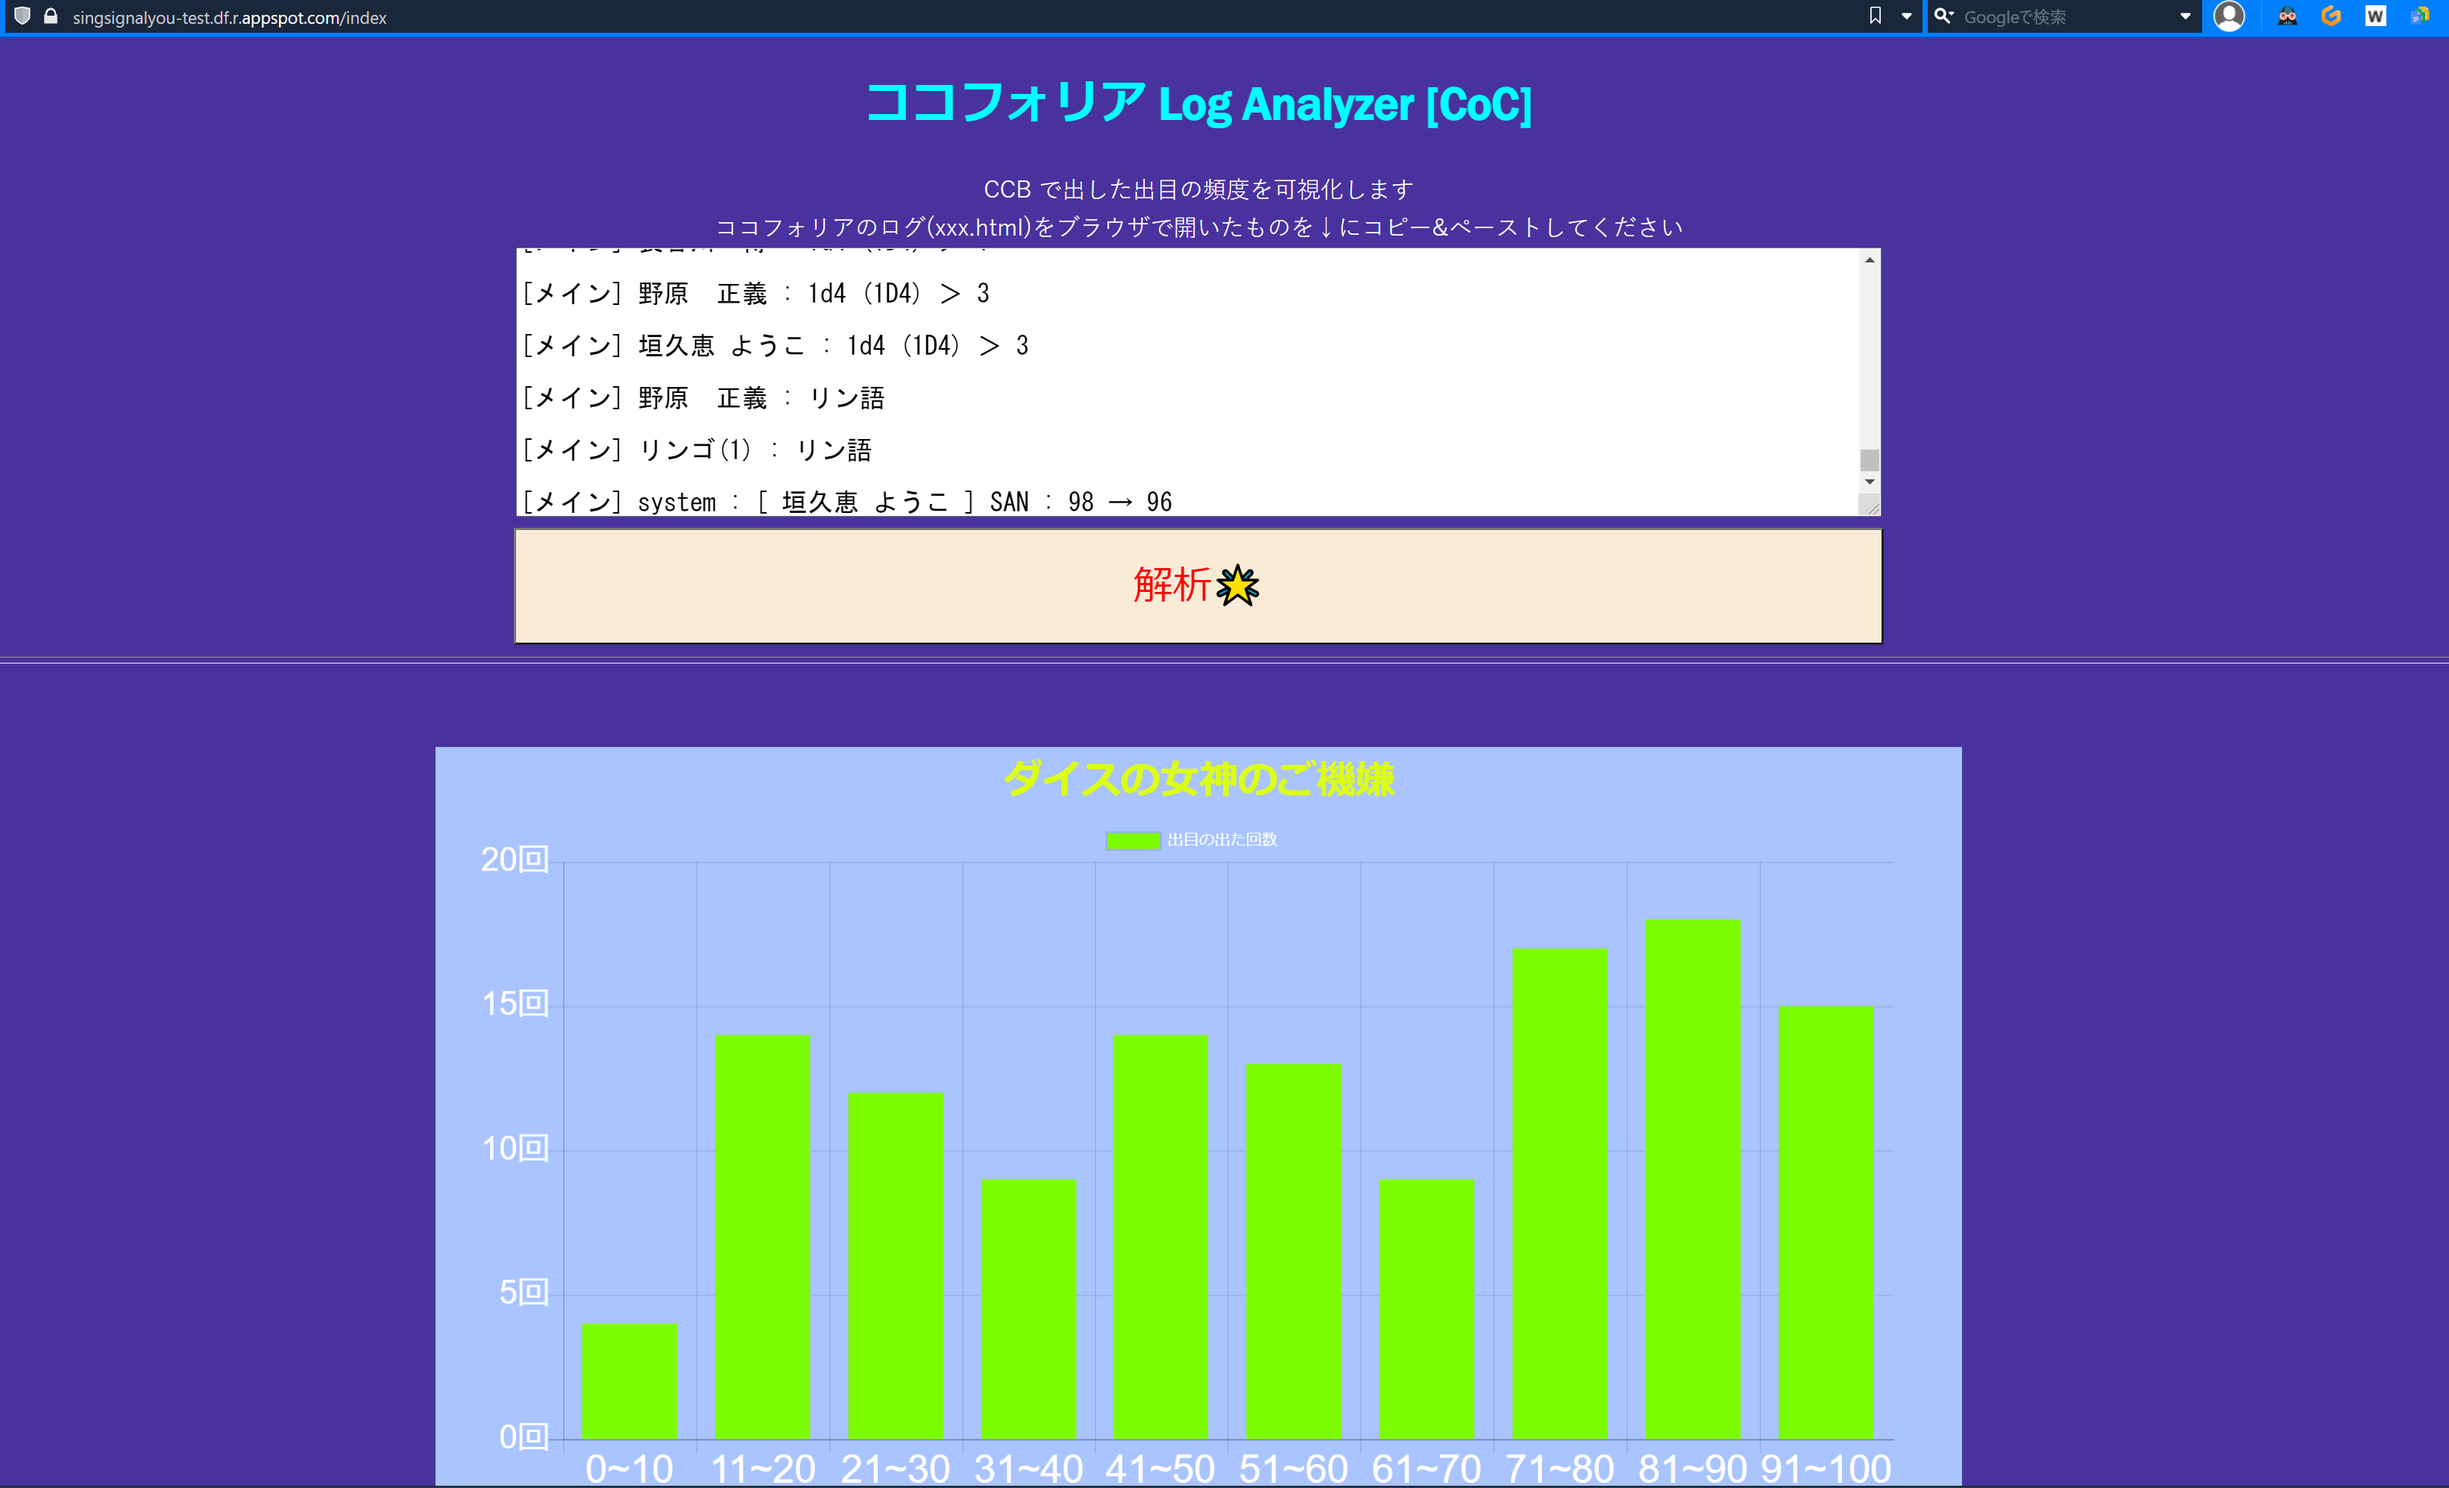
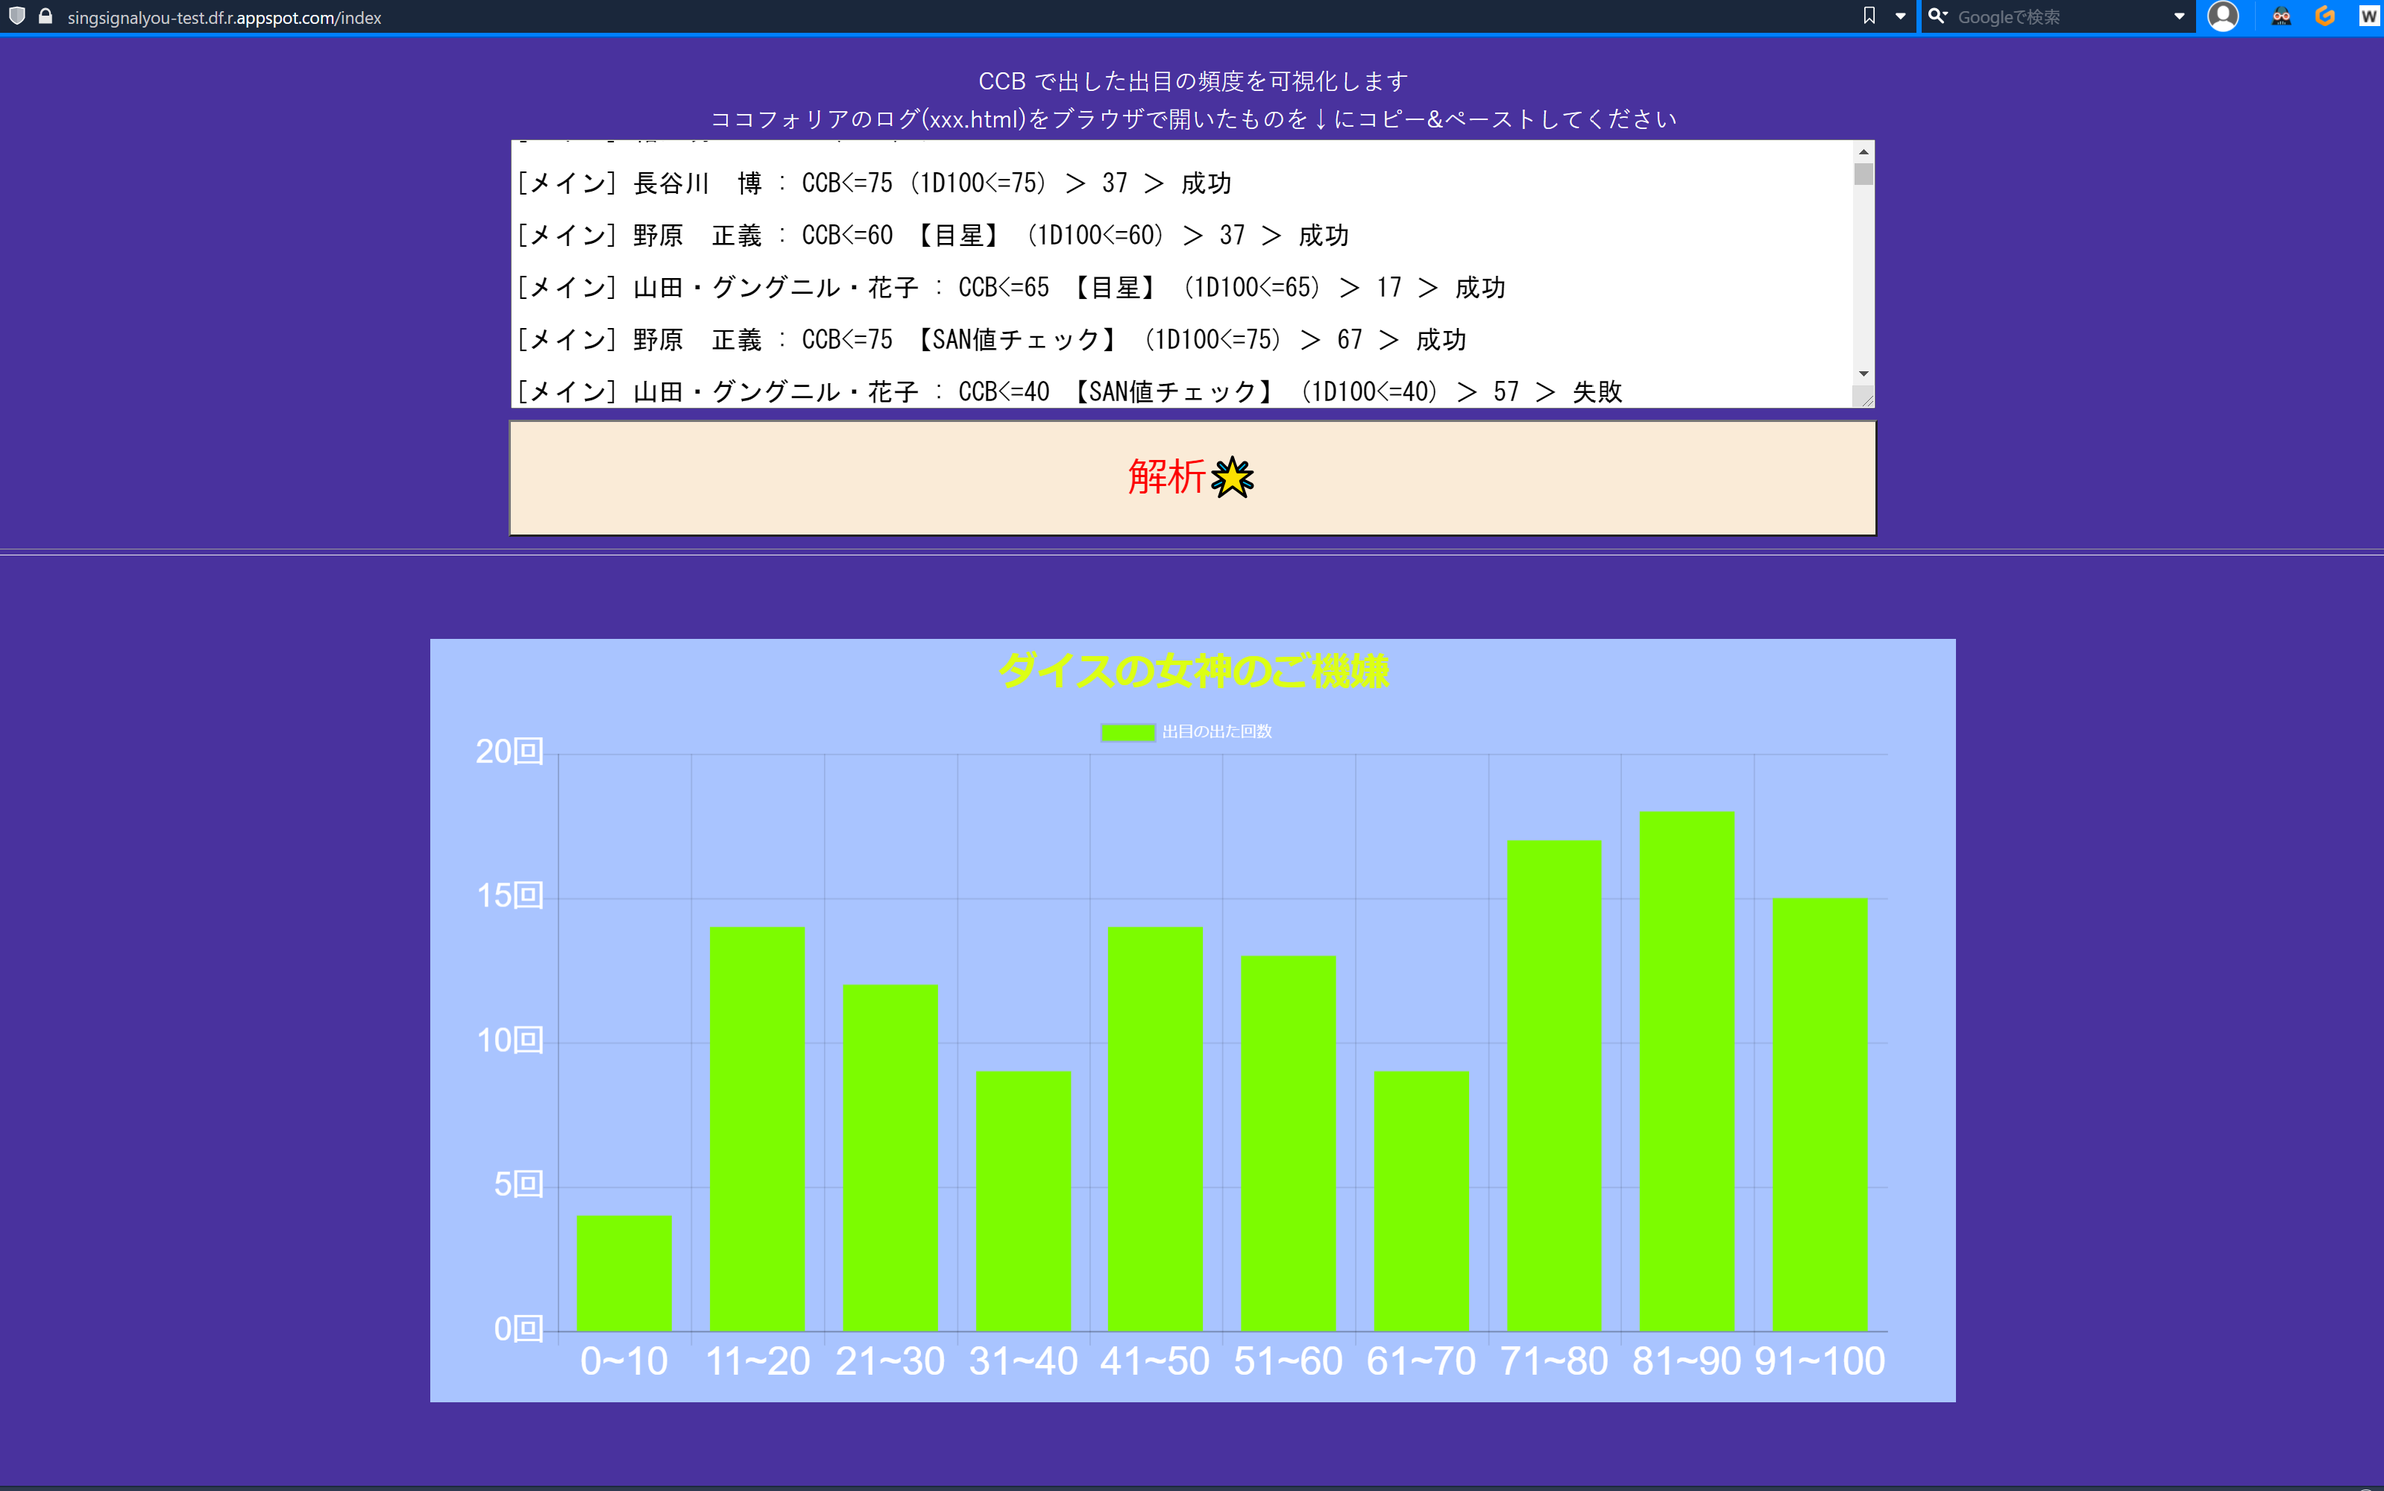
Refine doc

diff --git a/README.md b/README.md
@@ -15,8 +15,9 @@
 - Press `解析🌟` button
 - You get the histogram of your analyzed log (result of CCB~)
 Image
-![image](./Doc/images/unknown.png)
+![image](./Doc/images/sample.png)
 
 ## Future
+- count Success/Failed/Critical/Fumble
 - Group by Users (Now, analyzed all log)
 - UI, Color design (I have no sense😢)
